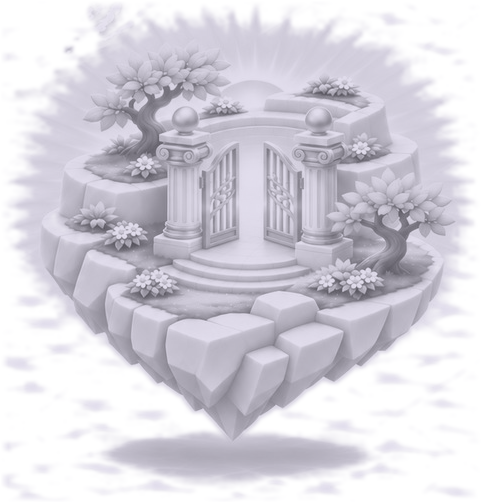
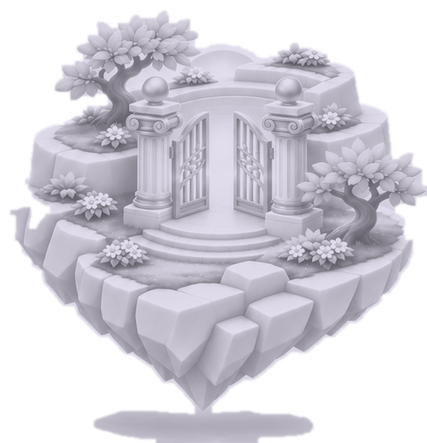
1.7.2: серая накладка Астрала только по острову, без сияния; пейзаж острова на фоне экранов (Theme.Scene): кристаллы у гор «Сирени», кроны и пальмы «Джунглей», водопад «Космоса», храм «Астрала»

diff --git a/PsyPath/UI/Controls.cs b/PsyPath/UI/Controls.cs
@@ -148,8 +148,169 @@ class BackdropDrawable : IDrawable
             canvas.FillRoundedRectangle(-20, h * 0.48f, w * 0.34f, 34, 17);
         }
 
-        Mountains(canvas, w, h, h * 0.74f);
+        float top = h * 0.74f;
+        switch (Pal.Scene)
+        {
+            case "jungle":
+                Jungle(canvas, w, h, top);
+                break;
+            case "astral":
+                Temple(canvas, w, h, top);
+                break;
+            default:
+                Mountains(canvas, w, h, top);
+                if (Pal.Scene == "crystal") Crystals(canvas, w, top);
+                if (Pal.Scene == "night") Waterfall(canvas, w, top);
+                break;
+        }
         Hill(canvas, w, h, h * 0.86f, Pal.Hill);
+    }
+
+    // пейзажи островов — в тонах фона, без ярких цветов: они не спорят с карточками
+
+    // Остров разума: у подножия гор пара кристаллов, тёмная грань и светлая
+    static void Crystals(ICanvas canvas, float w, float top)
+    {
+        var dark = Pal.HillFar.AddLuminosity(-0.07f);
+        var light = Pal.Hill.AddLuminosity(0.03f);
+        Shard(canvas, w * 0.31f, top + 56, 13, 58, -10, dark, light);
+        Shard(canvas, w * 0.36f, top + 58, 9, 36, 14, dark, light);
+        Shard(canvas, w * 0.74f, top + 52, 11, 46, 8, dark, light);
+        Shard(canvas, w * 0.69f, top + 54, 7, 26, -16, dark, light);
+    }
+
+    static void Shard(ICanvas canvas, float x, float y, float halfW, float height, float angle, Color body, Color face)
+    {
+        canvas.SaveState();
+        canvas.Translate(x, y);
+        canvas.Rotate(angle);
+        var p = new PathF();
+        p.MoveTo(-halfW, 0);
+        p.LineTo(-halfW, -height * 0.62f);
+        p.LineTo(0, -height);
+        p.LineTo(halfW, -height * 0.62f);
+        p.LineTo(halfW, 0);
+        p.Close();
+        canvas.FillColor = body;
+        canvas.FillPath(p);
+        var f = new PathF();
+        f.MoveTo(-halfW, 0);
+        f.LineTo(-halfW, -height * 0.62f);
+        f.LineTo(0, -height);
+        f.LineTo(-halfW * 0.1f, 0);
+        f.Close();
+        canvas.FillColor = face;
+        canvas.FillPath(f);
+        canvas.RestoreState();
+    }
+
+    // Джунгли психики: вместо гор — кроны деревьев и пальмы
+    static void Jungle(ICanvas canvas, float w, float h, float top)
+    {
+        var tree = Pal.HillFar;
+        var trunk = Pal.HillFar.AddLuminosity(-0.08f);
+        var ground = new PathF();
+        ground.MoveTo(0, h);
+        ground.LineTo(0, top + 40);
+        ground.CurveTo(w * 0.3f, top + 20, w * 0.6f, top + 50, w, top + 30);
+        ground.LineTo(w, h);
+        ground.Close();
+        canvas.FillColor = tree;
+        canvas.FillPath(ground);
+
+        (float X, float Size, bool Palm)[] trees =
+        {
+            (0.03f, 1.0f, false), (0.17f, 0.8f, true), (0.31f, 1.15f, false), (0.47f, 0.75f, false),
+            (0.6f, 1.0f, true), (0.76f, 1.2f, false), (0.92f, 0.85f, true)
+        };
+        foreach (var t in trees)
+        {
+            float x = w * t.X, baseY = top + 42, s = t.Size;
+            if (t.Palm)
+            {
+                Palm(canvas, x, baseY, s, tree, trunk);
+                continue;
+            }
+            canvas.FillColor = trunk;
+            canvas.FillRectangle(x - 4 * s, baseY - 44 * s, 8 * s, 46 * s);
+            canvas.FillColor = tree;
+            canvas.FillCircle(x, baseY - 62 * s, 30 * s);
+            canvas.FillCircle(x - 24 * s, baseY - 48 * s, 22 * s);
+            canvas.FillCircle(x + 24 * s, baseY - 50 * s, 24 * s);
+            // свисающая лиана
+            canvas.StrokeColor = trunk;
+            canvas.StrokeSize = 2;
+            canvas.DrawLine(x + 16 * s, baseY - 40 * s, x + 18 * s, baseY - 14 * s);
+        }
+    }
+
+    // пальма: изогнутый ствол и веер листьев
+    static void Palm(ICanvas canvas, float x, float baseY, float s, Color leaf, Color trunk)
+    {
+        float topX = x + 14 * s, topY = baseY - 78 * s;
+        canvas.StrokeColor = trunk;
+        canvas.StrokeSize = 6 * s;
+        canvas.StrokeLineCap = LineCap.Round;
+        var stem = new PathF();
+        stem.MoveTo(x, baseY);
+        stem.QuadTo(x - 4 * s, baseY - 44 * s, topX, topY);
+        canvas.DrawPath(stem);
+        canvas.FillColor = leaf;
+        foreach (float a in new[] { -170f, -135f, -95f, -55f, -15f })
+        {
+            canvas.SaveState();
+            canvas.Translate(topX, topY);
+            canvas.Rotate(a);
+            float len = 40 * s;
+            var p = new PathF();
+            p.MoveTo(0, 0);
+            p.CurveTo(len * 0.3f, -len * 0.3f, len * 0.8f, -len * 0.15f, len, len * 0.25f);
+            p.CurveTo(len * 0.7f, len * 0.05f, len * 0.3f, len * 0.12f, 0, 0);
+            canvas.FillPath(p);
+            canvas.RestoreState();
+        }
+    }
+
+    // Остров ночи: с большой вершины падает водопад
+    static void Waterfall(ICanvas canvas, float w, float top)
+    {
+        float x = w * 0.53f;
+        canvas.FillColor = Pal.Gray.WithAlpha(0.45f);
+        canvas.FillRoundedRectangle(x - 7, top - 20, 14, 86, 6);
+        canvas.StrokeColor = Pal.Ink2.WithAlpha(0.35f);
+        canvas.StrokeSize = 1.5f;
+        canvas.DrawLine(x - 2, top - 14, x - 2, top + 60);
+        canvas.DrawLine(x + 3, top - 4, x + 3, top + 52);
+        canvas.FillColor = Pal.Gray.WithAlpha(0.35f);
+        canvas.FillEllipse(x - 22, top + 58, 44, 14);
+    }
+
+    // Астрал: облачная гряда и храм с колоннами
+    static void Temple(ICanvas canvas, float w, float h, float top)
+    {
+        canvas.FillColor = Pal.HillFar;
+        for (int i = 0; i <= 8; i++)
+            canvas.FillCircle(w * i / 8f, top + 40 + (i % 2) * 10, 34);
+        canvas.FillRectangle(0, top + 40, w, h - top);
+
+        canvas.FillColor = Pal.HillFar.AddLuminosity(-0.07f);
+        float left = w * 0.6f, right = w * 0.92f, floor = top + 20, colH = 62;
+        canvas.FillRectangle(left - 8, floor, right - left + 16, 8);
+        for (int i = 0; i < 4; i++)
+        {
+            float cx = left + (right - left) * i / 3f;
+            canvas.FillRectangle(cx - 5, floor - colH, 10, colH);
+        }
+        canvas.FillRectangle(left - 8, floor - colH - 8, right - left + 16, 8);
+        var roof = new PathF();
+        roof.MoveTo(left - 10, floor - colH - 8);
+        roof.LineTo((left + right) / 2, floor - colH - 30);
+        roof.LineTo(right + 10, floor - colH - 8);
+        roof.Close();
+        canvas.FillPath(roof);
+        // две одинокие колонны слева
+        canvas.FillRectangle(w * 0.12f - 5, floor - 46, 10, 48);
+        canvas.FillRectangle(w * 0.2f - 5, floor - 34, 10, 36);
     }
 
     // тема «Космос»: звёзды, планета с кольцом и луна вместо облаков.

diff --git a/PsyPath/UI/Themes.cs b/PsyPath/UI/Themes.cs
@@ -4,12 +4,13 @@ namespace PsyPath.UI;
 // Контраст каждой проверен: текст Ink на Paper, Bg и Accent — не ниже 6.7, надпись OnAccent на Primary — не ниже 5.2 (WCAG AA).
 // Хвостовые цвета задают только тёмные темы; у светлых они общие (см. Pal.Apply).
 // Music — своя фоновая музыка темы из Resources/Raw, Space — звёзды и планета вместо облаков на фоне.
-// Island — номер острова (Islands.All), который открывает тему: она не продаётся, а открывается вместе с островом
+// Island — номер острова (Islands.All), который открывает тему: она не продаётся, а открывается вместе с островом.
+// Scene — пейзаж острова на фоне экранов (BackdropDrawable): crystal, jungle, night, astral; null — горы и облака
 public record Theme(string Id, string Name, int Price,
     Color Bg, Color Hill, Color HillFar, Color Paper, Color Paper2, Color Line,
     Color Ink, Color Ink2, Color Primary, Color Accent, Color Link, Color Gray,
     bool Dark = false, Color? OnAccent = null, Color? GreenSoft = null, Color? RedSoft = null,
-    Color? RedInk = null, Color? GreenInk = null, string? Music = null, bool Space = false, int Island = 0);
+    Color? RedInk = null, Color? GreenInk = null, string? Music = null, bool Space = false, int Island = 0, string? Scene = null);
 
 public static class Themes
 {
@@ -19,12 +20,12 @@ public static class Themes
     {
         new("lilac", "Сирень", 0,
             C("#E9DFF4"), C("#E0D4EF"), C("#D9CBEB"), C("#FBF5F3"), C("#F1E9F7"), C("#DCCFEB"),
-            C("#3D2C63"), C("#5F4E80"), C("#6E4BA6"), C("#CDB8EC"), C("#553A8B"), C("#AE9FC3"), Island: 1),
+            C("#3D2C63"), C("#5F4E80"), C("#6E4BA6"), C("#CDB8EC"), C("#553A8B"), C("#AE9FC3"), Island: 1, Scene: "crystal"),
         // пастельный лайм острова «Джунгли психики». Контраст: Ink на Paper 12.0, на Accent 8.7, OnAccent на Primary 5.1
         new("jungle", "Джунгли", 0,
             C("#E3F1D0"), C("#D7EBBF"), C("#CCE4B0"), C("#FAFDF4"), C("#EDF6E1"), C("#CFE3B8"),
             C("#253A1F"), C("#45603A"), C("#3F7A2A"), C("#C2E39A"), C("#2F6A22"), C("#A3BC93"),
-            Music: "music_jungle.mp3", Island: 2),
+            Music: "music_jungle.mp3", Island: 2, Scene: "jungle"),
         new("mint", "Мята", 150,
             C("#DDF1EA"), C("#D0EADF"), C("#C4E2D5"), C("#F7FBF8"), C("#E6F4EE"), C("#C5E1D5"),
             C("#1F4A3D"), C("#3B6458"), C("#2B7560"), C("#B5E3D2"), C("#1E6450"), C("#9DBFB2")),
@@ -49,11 +50,11 @@ public static class Themes
             C("#0E1430"), C("#2B3570"), C("#1A2150"), C("#1C2347"), C("#252D57"), C("#38427A"),
             C("#E8ECFF"), C("#AEB8E6"), C("#8FB4FF"), C("#3A4A94"), C("#9CC2FF"), C("#7480B8"),
             Dark: true, OnAccent: C("#0E1430"), GreenSoft: C("#173B37"), RedSoft: C("#47213A"),
-            RedInk: C("#FF9FC4"), GreenInk: C("#86E0C0"), Music: "music_cosmo.mp3", Space: true, Island: 3),
+            RedInk: C("#FF9FC4"), GreenInk: C("#86E0C0"), Music: "music_cosmo.mp3", Space: true, Island: 3, Scene: "night"),
         // бело-золотой «Астрал»: остров пока закрыт, тема и музыка появятся вместе с ним. Контраст: Ink на Paper 11.3, на Accent 8.2, OnAccent на Primary 4.9
         new("astral", "Астрал", 0,
             C("#FBF1D6"), C("#F5E7C0"), C("#EEDDB0"), C("#FFFDF6"), C("#FBF4E2"), C("#EADCB4"),
-            C("#47371A"), C("#6B5733"), C("#8C6A1C"), C("#EBD9A4"), C("#7A5A12"), C("#CDBB91"), Island: 4),
+            C("#47371A"), C("#6B5733"), C("#8C6A1C"), C("#EBD9A4"), C("#7A5A12"), C("#CDBB91"), Island: 4, Scene: "astral"),
     };
 
     // неизвестная или пустая тема — сиреневая

diff --git a/PsyPath/Services/Islands.cs b/PsyPath/Services/Islands.cs
@@ -5,10 +5,8 @@ namespace PsyPath.Services;
 
 // остров на главной: разделы уроков, тема и картинка. Number — порядок открытия.
 // Image — картинки island_<Image>.png и island_<Image>_gray.png, Box — где остров на карте (доли её стороны),
-// Decor — чем украшены кружки уроков на острове. Soon — остров показан, но пока закрыт для всех.
-// GrayBox — где серая копия, если она шире острова (у Астрала она накрывает и сияние вокруг)
-public record Island(int Number, string Name, string Image, int[] Sections, string Theme, Rect Box, string Decor,
-    bool Soon = false, Rect? GrayBox = null);
+// Decor — чем украшены кружки уроков на острове. Soon — остров показан, но пока закрыт для всех
+public record Island(int Number, string Name, string Image, int[] Sections, string Theme, Rect Box, string Decor, bool Soon = false);
 
 // четыре острова вместо общего списка разделов: открыт первый, следующий — когда пройдены все уроки предыдущего.
 // Открытый остров не закрывается, даже если рейтинг упал, и открывает свою тему в магазине
@@ -19,8 +17,7 @@ public static class Islands
         new(1, "Остров разума", "reason", new[] { 1, 2 }, "lilac", new Rect(0.034, 0.014, 0.437, 0.41), "crystal"),
         new(2, "Джунгли психики", "jungle", new[] { 13, 14 }, "jungle", new Rect(0.523, 0.01, 0.452, 0.404), "vine"),
         new(3, "Остров ночи", "night", new[] { 15, 16 }, "cosmo", new Rect(0.024, 0.477, 0.464, 0.481), "star"),
-        new(4, "Астрал", "astral", Array.Empty<int>(), "astral", new Rect(0.548, 0.506, 0.427, 0.443), "gold", Soon: true,
-            GrayBox: new Rect(0.518, 0.476, 0.482, 0.503))
+        new(4, "Астрал", "astral", Array.Empty<int>(), "astral", new Rect(0.548, 0.506, 0.427, 0.443), "gold", Soon: true)
     };
 
     // манул в лодке посередине карты

diff --git a/PsyPath/UI/Pal.cs b/PsyPath/UI/Pal.cs
@@ -47,6 +47,8 @@ public static class Pal
     public static bool Dark { get; private set; }
     // тема «Космос»: на фоне звёзды и планета вместо облаков
     public static bool Space { get; private set; }
+    // пейзаж острова на фоне (Theme.Scene)
+    public static string? Scene { get; private set; }
 
     public static Color Cycle(int i)
     {
@@ -71,6 +73,7 @@ public static class Pal
         Gray = t.Gray;
         Dark = t.Dark;
         Space = t.Space;
+        Scene = t.Scene;
         OnAccent = t.OnAccent ?? t.Paper;
         GreenSoft = t.GreenSoft ?? Color.FromArgb("#CFEFD9");
         RedSoft = t.RedSoft ?? Color.FromArgb("#FAD3DF");

diff --git a/PsyPath/UI/IslandMap.cs b/PsyPath/UI/IslandMap.cs
@@ -31,7 +31,7 @@ public class IslandMap : ContentView
             bool showLocked = !open || !AppState.P.IslandsShown.Contains(island.Number) && island.Number > 1;
 
             var gray = new Image { Source = $"island_{island.Image}_gray.png", Aspect = Aspect.Fill, InputTransparent = true, Opacity = showLocked ? 1 : 0 };
-            layer.Children.Add(Place(gray, island.GrayBox ?? island.Box));
+            layer.Children.Add(Place(gray, island.Box));
 
             var caption = Ui.Text(Caption(island, !showLocked), 10, Pal.Ink, true, TextAlignment.Center);
             var pill = new Border
